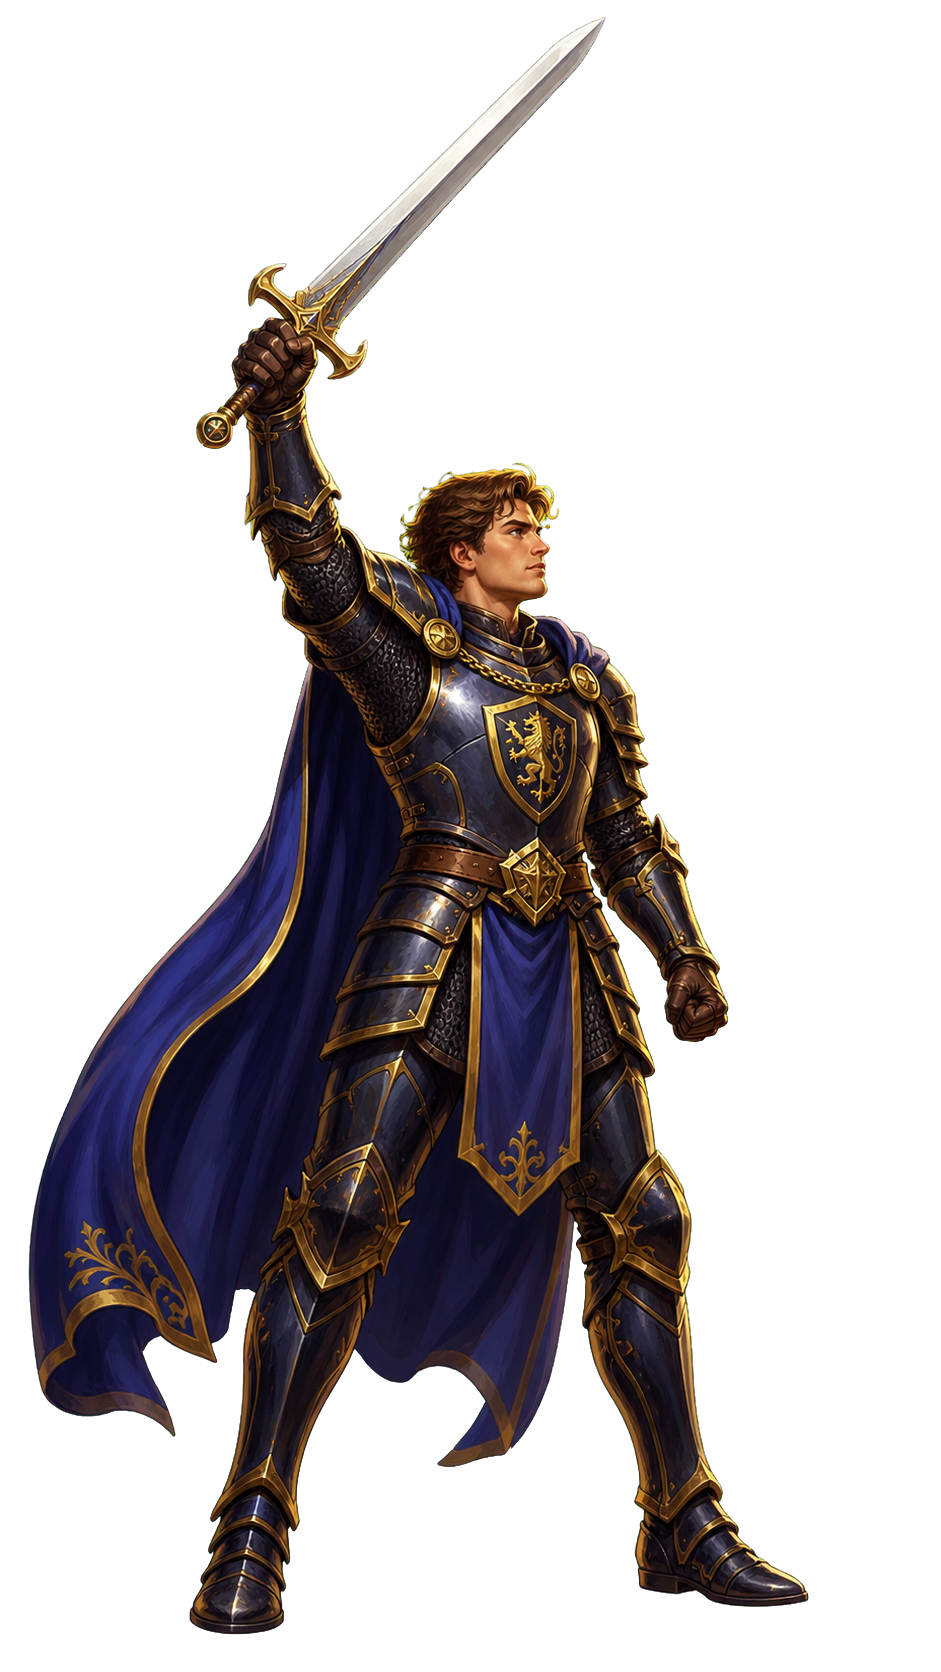
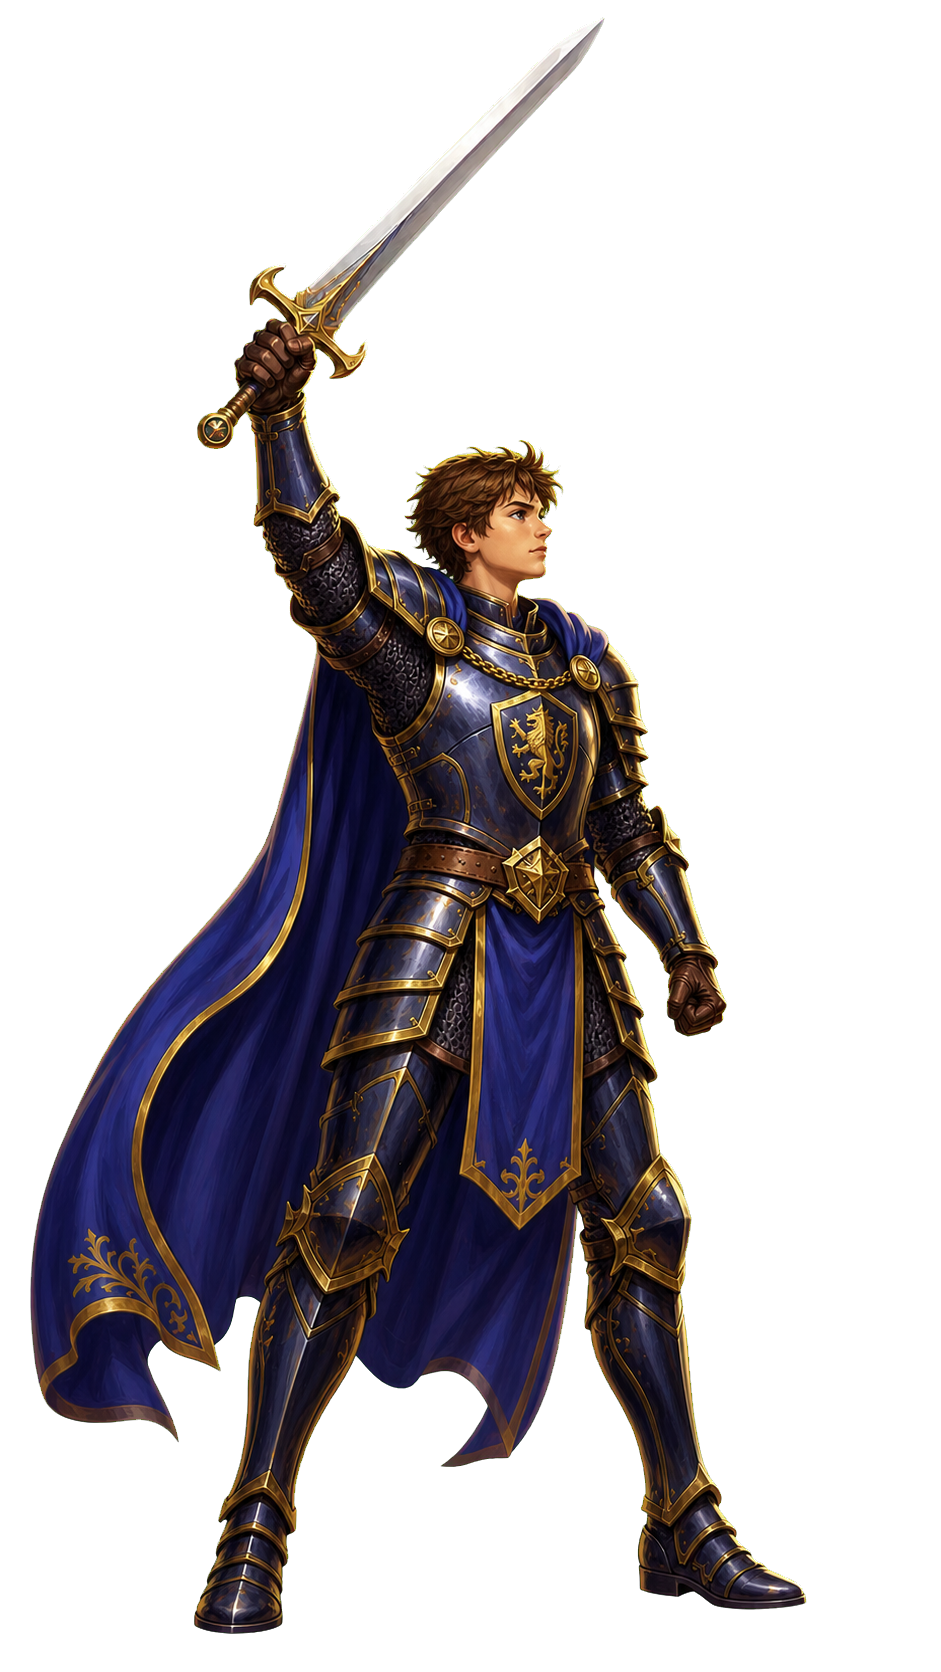
UI/UX: Add certification kingdom identity system

Changed region(s): [[0.0308, 0.1244, 0.8629, 0.9952]]

diff --git a/style.css b/style.css
@@ -87,6 +87,18 @@
     display: none;
 }
 
+.visually-hidden {
+    position: absolute;
+    width: 1px;
+    height: 1px;
+    padding: 0;
+    margin: -1px;
+    overflow: hidden;
+    clip: rect(0, 0, 0, 0);
+    white-space: nowrap;
+    border: 0;
+}
+
 #main-content {
     height: 100vh;
     display: flex;
@@ -122,9 +134,9 @@ Hydra Image
 ===============================*/
 
 .hydra-image {
-    width: 85vw;
-    max-width: 1100px;
-    max-height: 60vh;
+    width: 92vw;
+    max-width: 1200px;
+    max-height: 65vh;
     height: auto;
     object-fit: contain;
     display: block;
@@ -226,20 +238,77 @@ margin-top: 0;
     text-align: center;
 }
 
+body[data-certification="aplus-core1"],
+body[data-certification="A+ Core 1"] { --cert-icon-image: url("assets/aplus-core1-kingdom-icon.png"); }
+body[data-certification="aplus-core2"],
+body[data-certification="A+ Core 2"] { --cert-icon-image: url("assets/aplus-core2-kingdom-icon.png"); }
+body[data-certification="network-plus"],
+body[data-certification="Network+"] { --cert-icon-image: url("assets/network-plus-kingdom-icon.png"); }
+body[data-certification="security-plus"],
+body[data-certification="Security+"] { --cert-icon-image: url("assets/security-plus-kingdom-icon.png"); }
+body[data-certification="linux-essentials"] { --cert-icon-image: url("assets/linux-essentials-kingdom-icon.png"); }
+body[data-certification="aws-cloud-practitioner"] { --cert-icon-image: url("assets/aws-cloud-kingdom-icon.png"); }
+
+body.certification-cabinet[data-certification="aplus-core1"] { --kingdom-accent: #00eaff; }
+body.certification-cabinet[data-certification="aplus-core2"] { --kingdom-accent: #22d3ee; }
+body.certification-cabinet[data-certification="network-plus"] { --kingdom-accent: #8b5cf6; }
+body.certification-cabinet[data-certification="security-plus"] { --kingdom-accent: #c65cff; }
+body.certification-cabinet[data-certification="linux-essentials"] { --kingdom-accent: #39ff88; }
+body.certification-cabinet[data-certification="aws-cloud-practitioner"] { --kingdom-accent: #ff8a00; }
+
 .certification-cabinet-header {
+    position: relative;
+    overflow: hidden;
     margin-bottom: 26px;
     padding: clamp(20px, 5vw, 34px);
-    border: 2px solid #00eaff;
+    border: 2px solid #f3b33d;
     border-radius: 14px;
-    background: rgba(1, 12, 24, 0.9);
-    box-shadow: 0 0 22px rgba(0, 234, 255, 0.38);
+    background:
+        radial-gradient(circle at 50% 0%, color-mix(in srgb, var(--kingdom-accent, #00eaff) 14%, transparent), transparent 52%),
+        linear-gradient(180deg, rgba(48, 25, 10, 0.96), rgba(9, 6, 12, 0.98));
+    box-shadow:
+        inset 0 0 0 2px rgba(255, 220, 130, 0.12),
+        inset 0 0 24px rgba(255, 128, 0, 0.1),
+        0 0 16px rgba(243, 179, 61, 0.48),
+        0 0 28px color-mix(in srgb, var(--kingdom-accent, #00eaff) 22%, transparent);
+}
+
+.certification-cabinet-header::before {
+    content: "";
+    position: absolute;
+    inset: 7px;
+    border: 1px solid rgba(255, 221, 137, 0.3);
+    border-radius: 9px;
+    pointer-events: none;
+}
+
+.certification-cabinet-header .campaign-kicker {
+    color: #ffd76a;
+    text-shadow: 0 0 8px rgba(255, 156, 32, 0.72);
 }
 
 .certification-cabinet-header h1 {
     margin: 12px 0 4px;
-    color: #00eaff;
+    color: var(--kingdom-accent, #00eaff);
     font-size: clamp(1.8rem, 6vw, 2.8rem);
-    text-shadow: 0 0 12px #00eaff;
+    text-shadow:
+        0 0 10px var(--kingdom-accent, #00eaff),
+        0 0 22px color-mix(in srgb, var(--kingdom-accent, #00eaff) 55%, transparent);
+}
+
+body.certification-cabinet[data-certification] .certification-cabinet-header h1::before {
+    content: "";
+    display: inline-block;
+    width: 3.4rem;
+    height: 3.4rem;
+    margin-right: 10px;
+    background: var(--cert-icon-image) center / contain no-repeat;
+    vertical-align: middle;
+    filter: drop-shadow(0 0 8px var(--kingdom-accent, #00eaff));
+}
+
+.certification-cabinet-header .engine-credit {
+    color: #f4e6c0;
 }
 
 .certification-cabinet-header p:last-child {
@@ -256,9 +325,13 @@ margin-top: 0;
 
 body[data-certification]:not(.certification-cabinet)::before {
     display: block;
-    padding: 9px 14px;
+    padding: 9px 14px 9px 46px;
     border-bottom: 1px solid rgba(0, 234, 255, 0.7);
-    background: rgba(1, 8, 20, 0.94);
+    background-color: rgba(1, 8, 20, 0.94);
+    background-image: var(--cert-icon-image);
+    background-position: 14px center;
+    background-repeat: no-repeat;
+    background-size: 26px 26px;
     color: #aeefff;
     font-size: 0.76rem;
     font-weight: bold;
@@ -270,15 +343,45 @@ body[data-certification]:not(.certification-cabinet)::before {
 }
 
 body[data-certification="aplus-core1"]:not(.certification-cabinet)::before,
-body[data-certification="A+ Core 1"]:not(.certification-cabinet)::before { content: "🏰 GIANT SLAYER ACADEMY · 🖥 A+ CORE 1"; }
+body[data-certification="A+ Core 1"]:not(.certification-cabinet)::before { content: "🏰 GIANT SLAYER ACADEMY · A+ CORE 1"; }
 body[data-certification="aplus-core2"]:not(.certification-cabinet)::before,
-body[data-certification="A+ Core 2"]:not(.certification-cabinet)::before { content: "🏰 GIANT SLAYER ACADEMY · 🛠 A+ CORE 2"; }
+body[data-certification="A+ Core 2"]:not(.certification-cabinet)::before { content: "🏰 GIANT SLAYER ACADEMY · A+ CORE 2"; }
 body[data-certification="network-plus"]:not(.certification-cabinet)::before,
-body[data-certification="Network+"]:not(.certification-cabinet)::before { content: "🏰 GIANT SLAYER ACADEMY · 🌐 NETWORK+"; }
+body[data-certification="Network+"]:not(.certification-cabinet)::before { content: "🏰 GIANT SLAYER ACADEMY · NETWORK+"; }
 body[data-certification="security-plus"]:not(.certification-cabinet)::before,
-body[data-certification="Security+"]:not(.certification-cabinet)::before { content: "🏰 GIANT SLAYER ACADEMY · 🛡 SECURITY+"; }
-body[data-certification="linux-essentials"]:not(.certification-cabinet)::before { content: "🏰 GIANT SLAYER ACADEMY · 🐧 LINUX ESSENTIALS"; }
-body[data-certification="aws-cloud-practitioner"]:not(.certification-cabinet)::before { content: "🏰 GIANT SLAYER ACADEMY · ☁ AWS CLOUD PRACTITIONER"; }
+body[data-certification="Security+"]:not(.certification-cabinet)::before { content: "🏰 GIANT SLAYER ACADEMY · SECURITY+"; }
+body[data-certification="linux-essentials"]:not(.certification-cabinet)::before { content: "🏰 GIANT SLAYER ACADEMY · LINUX ESSENTIALS"; }
+body[data-certification="aws-cloud-practitioner"]:not(.certification-cabinet)::before { content: "🏰 GIANT SLAYER ACADEMY · AWS CLOUD PRACTITIONER"; }
+
+.games-links .certification-entry::before {
+    content: "";
+    display: inline-block;
+    width: 2.6rem;
+    height: 2.6rem;
+    margin-right: 10px;
+    background-position: center;
+    background-repeat: no-repeat;
+    background-size: contain;
+    vertical-align: middle;
+}
+
+.games-links a[href="aplus-core1.html"]::before { background-image: url("assets/aplus-core1-kingdom-icon.png"); }
+.games-links a[href="aplus-core2.html"]::before { background-image: url("assets/aplus-core2-kingdom-icon.png"); }
+.games-links a[href="network-plus.html"]::before { background-image: url("assets/network-plus-kingdom-icon.png"); }
+.games-links a[href="security-plus.html"]::before { background-image: url("assets/security-plus-kingdom-icon.png"); }
+.games-links a[href="linux-essentials.html"]::before { background-image: url("assets/linux-essentials-kingdom-icon.png"); }
+.games-links a[href="aws-cloud-practitioner.html"]::before { background-image: url("assets/aws-cloud-kingdom-icon.png"); }
+
+.certification-campaign-title::before {
+    content: "";
+    display: inline-block;
+    width: clamp(3rem, 7vw, 4.5rem);
+    height: clamp(3rem, 7vw, 4.5rem);
+    margin-right: 12px;
+    background: var(--cert-icon-image) center / contain no-repeat;
+    vertical-align: middle;
+    filter: drop-shadow(0 0 10px currentColor);
+}
 
 .command-center-title-line {
     color: #ffd700;
@@ -1175,12 +1278,12 @@ HYDRA QUIZ
     box-shadow: 0 0 20px rgba(0, 234, 255, 0.24);
 }
 
-.dashboard-campaign-card:nth-child(1) { --cert-accent: #00eaff; }
-.dashboard-campaign-card:nth-child(2) { --cert-accent: #22d3ee; }
-.dashboard-campaign-card:nth-child(3) { --cert-accent: #8b5cf6; }
-.dashboard-campaign-card:nth-child(4) { --cert-accent: #c65cff; }
-.dashboard-campaign-card:nth-child(5) { --cert-accent: #00eaff; }
-.dashboard-campaign-card:nth-child(6) { --cert-accent: #ff8a00; }
+.dashboard-campaign-card:nth-child(1) { --cert-accent: #00eaff; --cert-icon-image: url("assets/aplus-core1-kingdom-icon.png"); }
+.dashboard-campaign-card:nth-child(2) { --cert-accent: #22d3ee; --cert-icon-image: url("assets/aplus-core2-kingdom-icon.png"); }
+.dashboard-campaign-card:nth-child(3) { --cert-accent: #8b5cf6; --cert-icon-image: url("assets/network-plus-kingdom-icon.png"); }
+.dashboard-campaign-card:nth-child(4) { --cert-accent: #c65cff; --cert-icon-image: url("assets/security-plus-kingdom-icon.png"); }
+.dashboard-campaign-card:nth-child(5) { --cert-accent: #00eaff; --cert-icon-image: url("assets/linux-essentials-kingdom-icon.png"); }
+.dashboard-campaign-card:nth-child(6) { --cert-accent: #ff8a00; --cert-icon-image: url("assets/aws-cloud-kingdom-icon.png"); }
 
 .dashboard-campaign-card {
     border-color: var(--cert-accent, #00eaff);
@@ -1209,24 +1312,15 @@ HYDRA QUIZ
     margin: 4px 0 0;
 }
 
-.dashboard-campaign-card:nth-child(1) .dashboard-card-header h3::before,
-.dashboard-campaign-card:nth-child(1) .dashboard-enter::before { content: "🖥 "; }
-.dashboard-campaign-card:nth-child(2) .dashboard-card-header h3::before,
-.dashboard-campaign-card:nth-child(2) .dashboard-enter::before { content: "🛠 "; }
-.dashboard-campaign-card:nth-child(3) .dashboard-card-header h3::before,
-.dashboard-campaign-card:nth-child(3) .dashboard-enter::before { content: "🌐 "; }
-.dashboard-campaign-card:nth-child(4) .dashboard-card-header h3::before,
-.dashboard-campaign-card:nth-child(4) .dashboard-enter::before { content: "🛡 "; }
-.dashboard-campaign-card:nth-child(5) .dashboard-card-header h3::before,
-.dashboard-campaign-card:nth-child(5) .dashboard-enter::before { content: "🐧 "; }
-.dashboard-campaign-card:nth-child(6) .dashboard-card-header h3::before,
-.dashboard-campaign-card:nth-child(6) .dashboard-enter::before { content: "☁ "; }
-
-.dashboard-card-header h3::before {
+.dashboard-card-header h3::before,
+.dashboard-enter::before {
+    content: "";
     display: inline-block;
+    width: 3.4rem;
+    height: 3.4rem;
+    flex: 0 0 auto;
     margin-right: 10px;
-    font-size: 2.35rem;
-    line-height: 1;
+    background: var(--cert-icon-image) center / contain no-repeat;
     vertical-align: middle;
     filter: drop-shadow(0 0 8px var(--cert-accent, #00eaff));
 }
@@ -1351,6 +1445,15 @@ HYDRA QUIZ
 .academy-metrics .dashboard-metric:nth-child(7) span::before { content: "🏆 "; }
 .academy-metrics .dashboard-metric:nth-child(8) span::before { content: "👑 "; }
 
+.academy-metrics .dashboard-metric span::before {
+    display: inline-block;
+    margin-right: 6px;
+    font-size: 1.65rem;
+    line-height: 1;
+    vertical-align: middle;
+    filter: drop-shadow(0 0 5px rgba(255, 215, 0, 0.42));
+}
+
 .dashboard-metric strong {
     color: #ffd700;
     font-size: 1.05rem;
@@ -1402,9 +1505,9 @@ HYDRA QUIZ
 }
 
 .dashboard-enter::before {
+    width: 2.75rem;
+    height: 2.75rem;
     margin-right: 10px;
-    font-size: 2rem;
-    line-height: 1;
     filter: drop-shadow(0 0 7px var(--cert-accent, #00eaff));
 }
 
@@ -1499,6 +1602,11 @@ HYDRA QUIZ
 
     .dashboard-metrics .dashboard-metric::before {
         font-size: 2.15rem;
+    }
+
+    .academy-metrics .dashboard-metric span::before {
+        margin-right: 4px;
+        font-size: 1.45rem;
     }
 
     .dashboard-enter {

diff --git a/index.html b/index.html
@@ -27,23 +27,23 @@ class="start-gate">
 </div>
 
 <main id="main-content" class="hidden">
-<h1 class="arcade-title"> Giant Slayer Academy</h1>
-<p class="tagline">Recognition First. Mastery Follows.</p>
+<h1 class="visually-hidden">Giant Slayer Academy</h1>
 
 <!-- Hydra Image -->
  <img src="Giant_Slayer_Academy_Main_Menu.png"
- alt="Hydra Dragon"
+ alt="Giant Slayer Academy campaign artwork"
  class="hydra-image">
+<p class="tagline">Recognition First. Mastery Follows.</p>
 <h2 class="games-header">Select a Game</h2>
 
 <div class="games-links">
 <a href="dashboard.html" class="link-btn">🏰 Command Center</a>
-<a href="aplus-core1.html" class="link-btn">🖥 Enter A+ Core 1</a>
-<a href="aplus-core2.html" class="link-btn">🛠 Enter A+ Core 2</a>
- <a href="network-plus.html" class="link-btn">🌐 Enter Network+</a>
- <a href="security-plus.html" class="link-btn">🛡 Enter Security+</a>
- <a href="linux-essentials.html" class="link-btn">🐧 Enter Linux Essentials</a>
- <a href="aws-cloud-practitioner.html" class="link-btn">☁ Enter AWS Cloud Practitioner</a>
+<a href="aplus-core1.html" class="link-btn certification-entry">Enter A+ Core 1</a>
+<a href="aplus-core2.html" class="link-btn certification-entry">Enter A+ Core 2</a>
+ <a href="network-plus.html" class="link-btn certification-entry">Enter Network+</a>
+ <a href="security-plus.html" class="link-btn certification-entry">Enter Security+</a>
+ <a href="linux-essentials.html" class="link-btn certification-entry">Enter Linux Essentials</a>
+ <a href="aws-cloud-practitioner.html" class="link-btn certification-entry">Enter AWS Cloud Practitioner</a>
 </div>
 </main>
 

diff --git a/aws-cloud-practitioner.html b/aws-cloud-practitioner.html
@@ -9,7 +9,7 @@
 </head>
 <body class="arcade-body certification-cabinet" data-certification="aws-cloud-practitioner">
   <main class="certification-cabinet-shell">
-  <header class="certification-cabinet-header"><span class="campaign-kicker">🏰 GIANT SLAYER ACADEMY</span><h1>☁ AWS Cloud Practitioner</h1><p class="engine-credit">Powered by the Hydra Learning Engine</p><p>CLF-C02 • Every certification is another giant defeated.</p></header>
+  <header class="certification-cabinet-header"><span class="campaign-kicker">🏰 GIANT SLAYER ACADEMY</span><h1>AWS Cloud Practitioner</h1><p class="engine-credit">Powered by the Hydra Learning Engine</p><p>CLF-C02 • Kingdom VI - The Cloud Kingdom<br>Giant Slayer, conquer the Cloud Kingdom and expand the realm beyond its borders.</p></header>
   <h2>Select a Mode</h2>
   <div class="game-links">
     <a href="aws-cloud-practitioner-campaign.html" class="link-btn">⚔ Hydra Run</a>

diff --git a/linux-essentials.html b/linux-essentials.html
@@ -9,7 +9,7 @@
 </head>
 <body class="arcade-body certification-cabinet" data-certification="linux-essentials">
   <main class="certification-cabinet-shell">
-  <header class="certification-cabinet-header"><span class="campaign-kicker">🏰 GIANT SLAYER ACADEMY</span><h1>🐧 Linux Essentials</h1><p class="engine-credit">Powered by the Hydra Learning Engine</p><p>010-160 • No Objective Left Behind.</p></header>
+  <header class="certification-cabinet-header"><span class="campaign-kicker">🏰 GIANT SLAYER ACADEMY</span><h1>Linux Essentials</h1><p class="engine-credit">Powered by the Hydra Learning Engine</p><p>010-160 • Kingdom V - The Linux Citadel<br>Giant Slayer, master the Citadel and strengthen the kingdom from within.</p></header>
   <h2>Select a Mode</h2>
   <div class="game-links">
     <a href="linux-essentials-campaign.html" class="link-btn">⚔ Hydra Run</a>

diff --git a/aplus-core2.html b/aplus-core2.html
@@ -9,7 +9,7 @@
 </head>
 <body class="arcade-body certification-cabinet" data-certification="aplus-core2">
   <main class="certification-cabinet-shell">
-  <header class="certification-cabinet-header"><span class="campaign-kicker">🏰 GIANT SLAYER ACADEMY</span><h1>🛠 A+ Core 2</h1><p class="engine-credit">Powered by the Hydra Learning Engine</p><p>220-1202 • No Objective Left Behind.</p></header>
+  <header class="certification-cabinet-header"><span class="campaign-kicker">🏰 GIANT SLAYER ACADEMY</span><h1>A+ Core 2</h1><p class="engine-credit">Powered by the Hydra Learning Engine</p><p>220-1202 • Kingdom II - The Technician's Trials<br>Giant Slayer, prove your worth by overcoming the kingdom's greatest challenges.</p></header>
   <h2>Select a Mode</h2>
   <div class="game-links">
     <a href="aplus-core2-campaign.html" class="link-btn">⚔ Hydra Run</a>

diff --git a/aplus-core1.html b/aplus-core1.html
@@ -9,7 +9,7 @@
 </head>
 <body class="arcade-body certification-cabinet" data-certification="aplus-core1">
   <main class="certification-cabinet-shell">
-  <header class="certification-cabinet-header"><span class="campaign-kicker">🏰 GIANT SLAYER ACADEMY</span><h1>🖥 A+ Core 1</h1><p class="engine-credit">Powered by the Hydra Learning Engine</p><p>220-1201 • Recognition First. Mastery Follows.</p></header>
+  <header class="certification-cabinet-header"><span class="campaign-kicker">🏰 GIANT SLAYER ACADEMY</span><h1>A+ Core 1</h1><p class="engine-credit">Powered by the Hydra Learning Engine</p><p>220-1201 • Kingdom I - The Technician's Journey<br>Giant Slayer, master the tools of the trade and begin your journey.</p></header>
   <h2>Select a Mode</h2>
   <div class="game-links">
     <a href="aplus-core1-campaign.html" class="link-btn">⚔ Hydra Run</a>

diff --git a/security-plus.html b/security-plus.html
@@ -9,7 +9,7 @@
 </head>
 <body class="arcade-body certification-cabinet" data-certification="security-plus">
   <main class="certification-cabinet-shell">
-  <header class="certification-cabinet-header"><span class="campaign-kicker">🏰 GIANT SLAYER ACADEMY</span><h1>🛡 Security+</h1><p class="engine-credit">Powered by the Hydra Learning Engine</p><p>SY0-701 • No Objective Left Behind.</p></header>
+  <header class="certification-cabinet-header"><span class="campaign-kicker">🏰 GIANT SLAYER ACADEMY</span><h1>Security+</h1><p class="engine-credit">Powered by the Hydra Learning Engine</p><p>SY0-701 • Kingdom IV - The Cyber Fortress<br>Giant Slayer, stand united and defend the kingdom against the giants.</p></header>
   <h2>Select a Mode</h2>
   <div class="game-links">
     <a href="security-plus-campaign.html" class="link-btn">⚔ Hydra Run</a>

diff --git a/network-plus.html b/network-plus.html
@@ -10,7 +10,7 @@
 
    <body class="arcade-body certification-cabinet" data-certification="network-plus">
     <main class="certification-cabinet-shell">
-    <header class="certification-cabinet-header"><span class="campaign-kicker">🏰 GIANT SLAYER ACADEMY</span><h1>🌐 Network+</h1><p class="engine-credit">Powered by the Hydra Learning Engine</p><p>N10-009 • Recognition First. Mastery Follows.</p></header>
+    <header class="certification-cabinet-header"><span class="campaign-kicker">🏰 GIANT SLAYER ACADEMY</span><h1>Network+</h1><p class="engine-credit">Powered by the Hydra Learning Engine</p><p>N10-009 • Kingdom III - The Network Realm<br>Giant Slayer, forge every connection and unite the kingdom against the giants.</p></header>
 
     <h2>Select a Mode</h2>
 

diff --git a/security-plus-campaign.html b/security-plus-campaign.html
@@ -9,7 +9,7 @@
 </head>
 <body class="arcade-body" data-campaign-journey data-progress-key="hydra-security-plus-progress-v1" data-certification="Security+" data-exam-code="SY0-701" data-quest-name="THE CYBERSECURITY QUEST" data-journey-name="Security+" data-topics="5" data-objectives="28" data-banks="28" data-questions="797" data-world-questions="111,150,129,246,161">
   <div class="crt-overlay"></div>
-  <h1 class="arcade-title">🌎 SECURITY+ CAMPAIGN MAP</h1>
+  <h1 class="arcade-title certification-campaign-title">SECURITY+ CAMPAIGN MAP</h1>
   <p class="tagline">Master SY0-701, survive the Exam Chamber, and unlock the Final Dungeon.</p>
   <div class="campaign-map">
     <a href="security-plus-world8.html" class="world final-dungeon unlocked">🏰<br>FINAL DUNGEON</a>

diff --git a/aplus-core2-campaign.html b/aplus-core2-campaign.html
@@ -9,7 +9,7 @@
 </head>
 <body class="arcade-body" data-campaign-journey data-progress-key="hydra-aplus-core2-progress-v1" data-certification="A+ Core 2" data-exam-code="220-1202" data-quest-name="THE OPERATING SYSTEM QUEST" data-journey-name="A+ Core 2" data-topics="5" data-objectives="36" data-banks="36" data-questions="795" data-world-questions="300,258,55,90,92">
   <div class="crt-overlay"></div>
-  <h1 class="arcade-title">🌎 A+ CORE 2 CAMPAIGN MAP</h1>
+  <h1 class="arcade-title certification-campaign-title">A+ CORE 2 CAMPAIGN MAP</h1>
   <p class="tagline">Master 220-1202, survive the Exam Chamber, and unlock the Final Dungeon.</p>
   <div class="campaign-map">
     <a href="aplus-core2-world8.html" class="world final-dungeon unlocked">🏰<br>FINAL DUNGEON</a>

diff --git a/aplus-core1-campaign.html b/aplus-core1-campaign.html
@@ -9,7 +9,7 @@
 </head>
 <body class="arcade-body" data-campaign-journey data-progress-key="hydra-aplus-core1-progress-v1" data-certification="A+ Core 1" data-exam-code="220-1201" data-quest-name="THE HARDWARE QUEST" data-journey-name="A+ Core 1" data-topics="5" data-objectives="27" data-banks="27" data-questions="455" data-world-questions="52,114,174,32,83">
   <div class="crt-overlay"></div>
-  <h1 class="arcade-title">🌎 A+ CORE 1 CAMPAIGN MAP</h1>
+  <h1 class="arcade-title certification-campaign-title">A+ CORE 1 CAMPAIGN MAP</h1>
   <p class="tagline">Master 220-1201, survive the Exam Chamber, and unlock the Final Dungeon.</p>
   <div class="campaign-map">
     <a href="aplus-core1-world8.html" class="world final-dungeon unlocked">🏰<br>FINAL DUNGEON</a>

diff --git a/aws-cloud-practitioner-campaign.html b/aws-cloud-practitioner-campaign.html
@@ -12,7 +12,7 @@
   <main class="linux-campaign-shell">
     <header class="linux-campaign-hero">
       <span class="campaign-kicker">AWS CLF-C02 · THE CLOUD ASCENT</span>
-      <h1 class="arcade-title">☁ AWS CLOUD PRACTITIONER CAMPAIGN</h1>
+      <h1 class="arcade-title certification-campaign-title">AWS CLOUD PRACTITIONER CAMPAIGN</h1>
       <p class="tagline">Master every task statement, survive the Exam Chamber, and conquer the Final Dungeon.</p>
     </header>
     <section class="campaign-command-panel" aria-label="AWS Cloud Practitioner campaign status">
